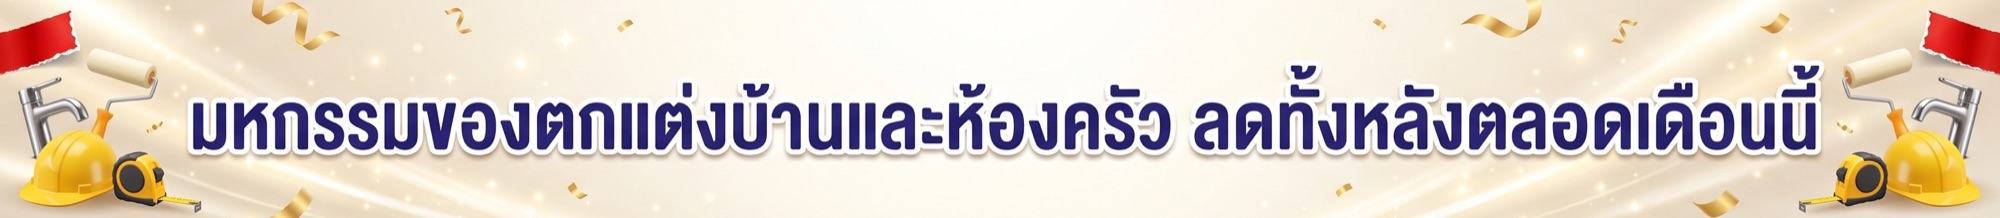
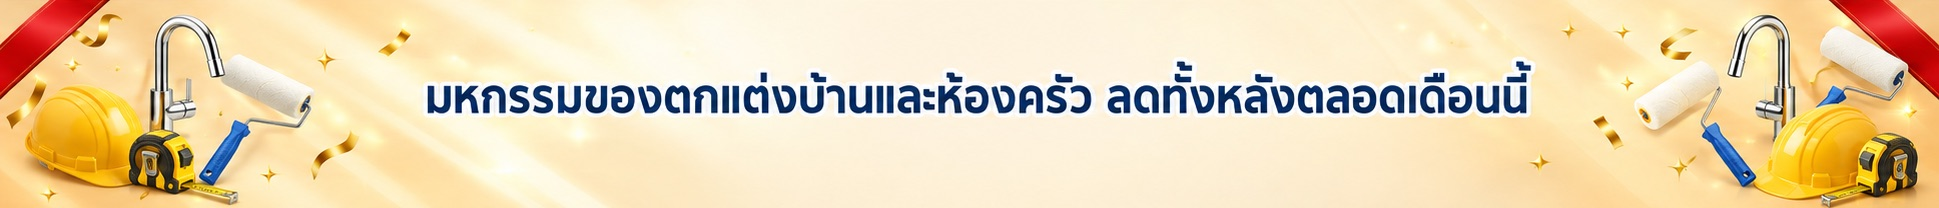
Use the new promo strip picture, cropped to its band, and keep the strip 64px high with the headline centred in the crop
The strip grows to 3.8vw on screens wider than about 1700px so the headline is not cut.

diff --git a/src/ui/storefront.css b/src/ui/storefront.css
@@ -469,8 +469,8 @@
 .banner-slide__image { display: block; width: 100%; height: 100%; object-fit: cover; }
 .visually-hidden { position: absolute; width: 1px; height: 1px; margin: -1px; padding: 0; overflow: hidden; clip: rect(0 0 0 0); white-space: nowrap; border: 0; }
 /* No taller than the strip is wide divided by the picture's own shape (about 9:1), so a phone shows the whole picture and a wide screen shows its middle. */
-.promo-strip--image { display: block; min-height: 0; padding: 0; height: min(var(--space-8), 10.9vw); overflow: hidden; background: var(--color-surface-alt); }
-.promo-strip--image img { display: block; width: 100%; height: 100%; object-fit: cover; object-position: center; }
+.promo-strip--image { display: block; min-height: 0; padding: 0; height: min(max(var(--space-8), 3.8vw), 10.9vw); overflow: hidden; background: var(--color-surface-alt); }
+.promo-strip--image img { display: block; width: 100%; height: 100%; object-fit: cover; object-position: center 41%; }
 
 /* A shop-by-job tile with a picture: the picture fills the tile and the label sits on a dark band, like the category tiles. */
 .tile__picture { position: absolute; inset: 0; width: 100%; height: 100%; object-fit: cover; }
